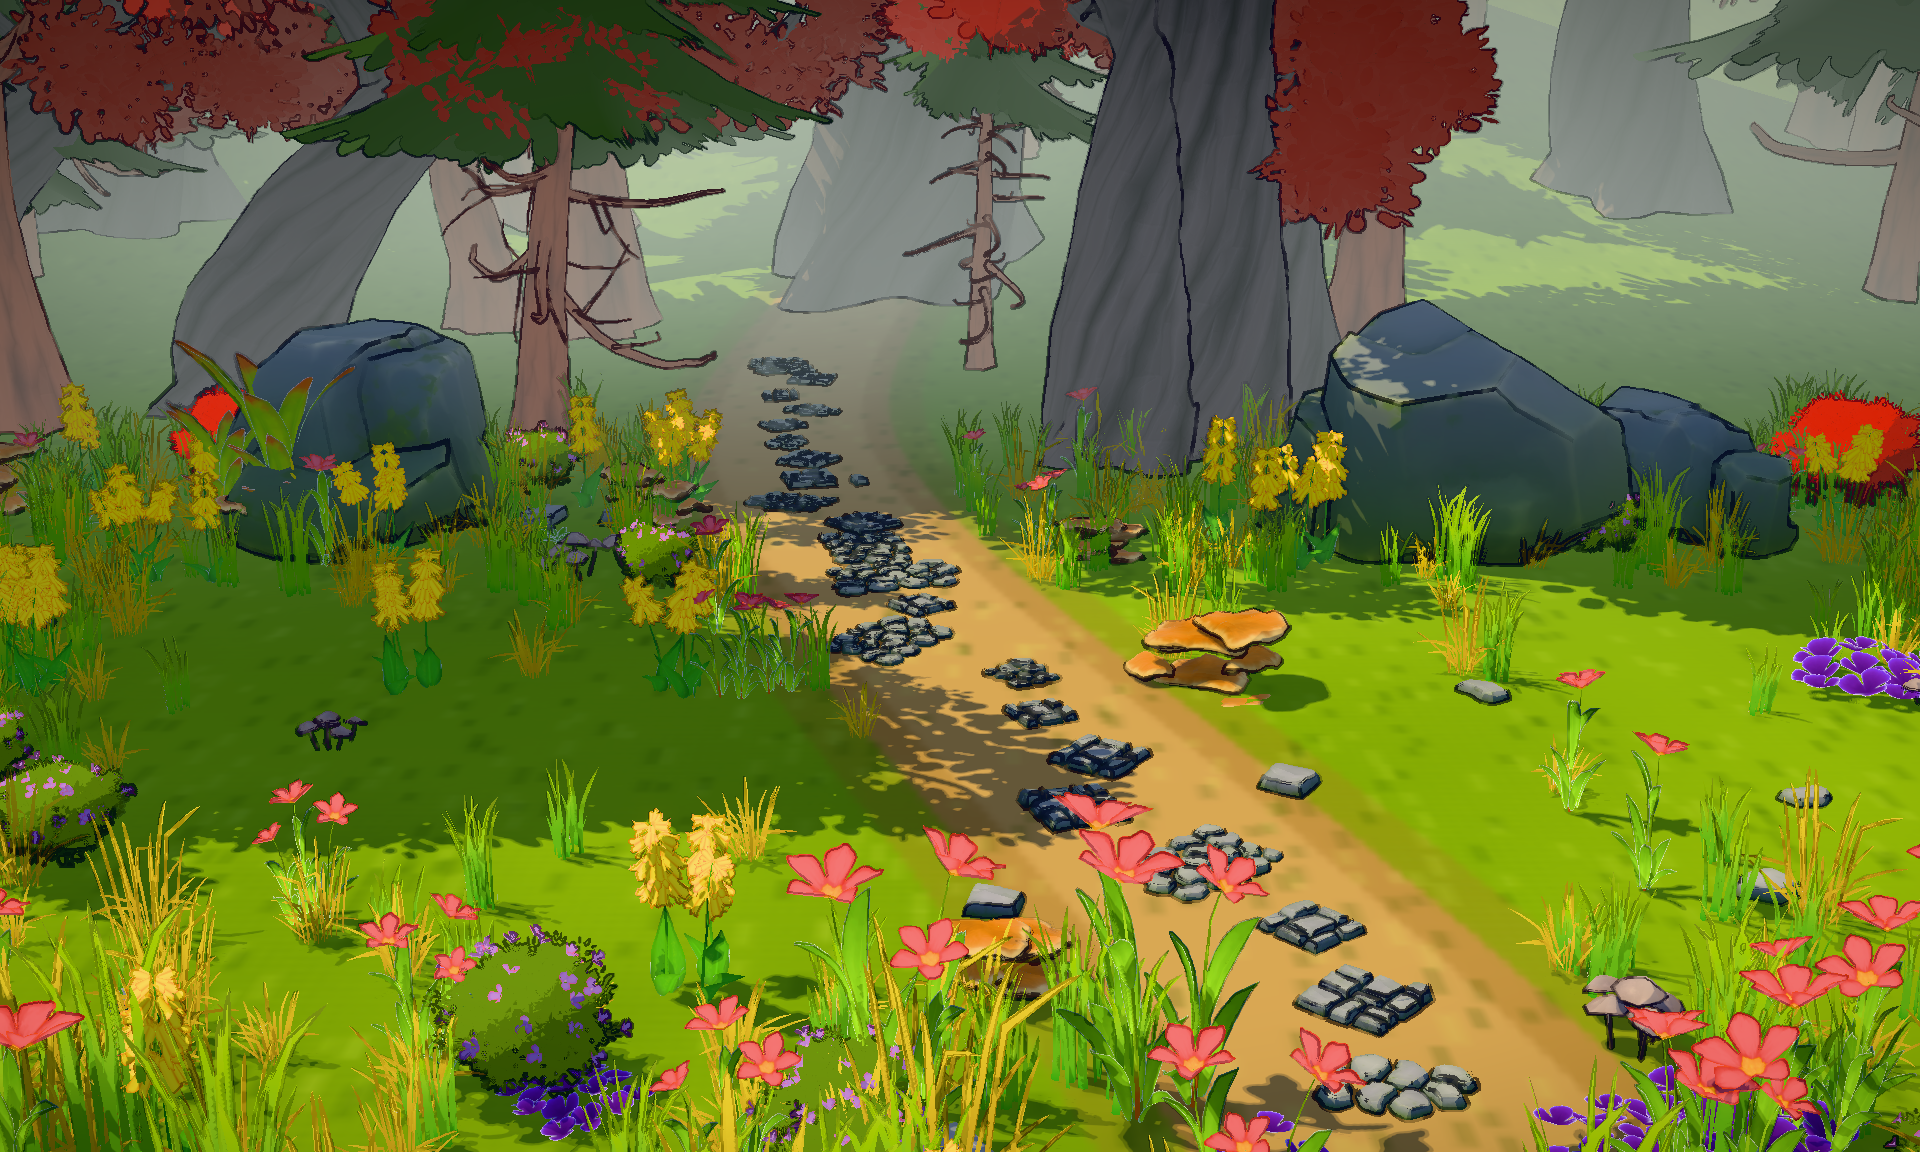
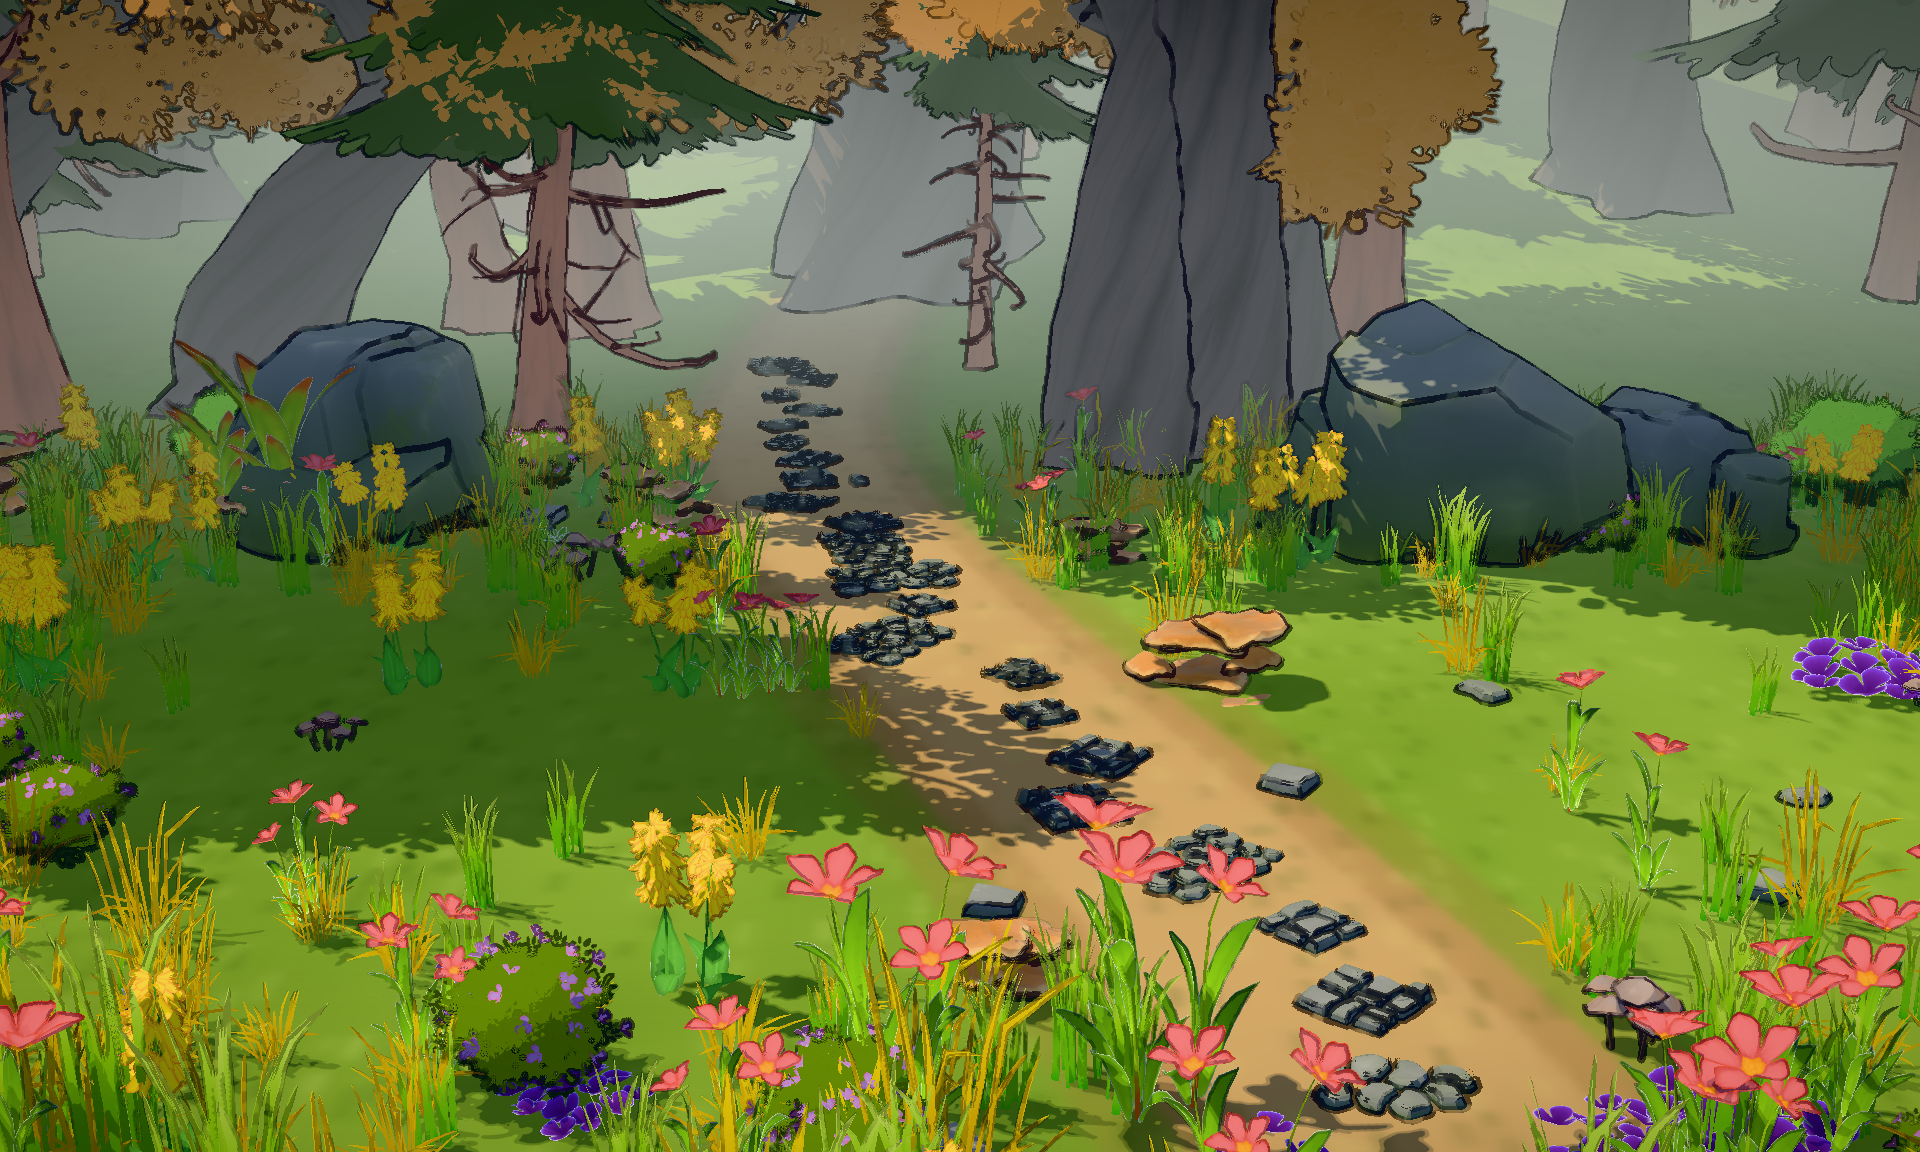
Toon scene: recolor red leaves to autumn gold / green bushes, flatten textures more, thicker wobblier lines, slightly lower saturation
Claude-Session: https://claude.ai/code/session_01JLEecThURYQTCHEQgBW1W6

diff --git a/hd2d-walk-demo/scenes3d/toon.js b/hd2d-walk-demo/scenes3d/toon.js
@@ -80,20 +80,32 @@ export function toonMaterial(src, kind, opt) {
     // 贴图「压平」：树皮、石头、地面的手绘细节和高频噪点会和分档光照打架，
     // 混一部分低精度 mip（相当于取局部平均色），表面变成更干净的色块，大的花纹还在
     if (kind === 'solid' && src.map) {
-      sh.uniforms.flatAmt = { value: opt.flatten ?? 0.55 };
+      sh.uniforms.flatAmt = { value: opt.flatten ?? 0.72 };
       sh.fragmentShader = sh.fragmentShader.replace('#include <map_fragment>', /* glsl */`
         #ifdef USE_MAP
           vec4 sampledDiffuseColor = texture2D( map, vMapUv );
-          sampledDiffuseColor.rgb = mix( sampledDiffuseColor.rgb, texture2D( map, vMapUv, 3.5 ).rgb, flatAmt );
+          sampledDiffuseColor.rgb = mix( sampledDiffuseColor.rgb, texture2D( map, vMapUv, 4.5 ).rgb, flatAmt );
           diffuseColor *= sampledDiffuseColor;
         #endif
       `).replace('uniform float sunLum, mid;', 'uniform float sunLum, mid, flatAmt;');
+    }
+    // 换色：素材包自带的深红叶子（TwistedTree / 灌木）太刺眼——取贴图红通道当明暗花纹，填上新颜色
+    if (src.userData.recolor && src.map) {
+      sh.uniforms.recolor = { value: new THREE.Color(src.userData.recolor) };
+      sh.fragmentShader = sh.fragmentShader.replace('#include <map_fragment>', /* glsl */`
+        #ifdef USE_MAP
+          vec4 sampledDiffuseColor = texture2D( map, vMapUv );
+          sampledDiffuseColor.rgb = recolor * clamp(sampledDiffuseColor.r / 0.40, 0.0, 1.6);
+          diffuseColor *= sampledDiffuseColor;
+        #endif
+      `).replace('uniform float sunLum, mid;', 'uniform float sunLum, mid; uniform vec3 recolor;');
     }
     // 叶片是双面卡片：背面不翻法线（用重写过的球形法线，整团叶子明暗连续）
     if (kind !== 'solid') sh.fragmentShader = sh.fragmentShader.replace('#include <normal_fragment_begin>',
       THREE.ShaderChunk.normal_fragment_begin.replace('normal *= faceDirection;', ''));
   };
-  m.customProgramCacheKey = () => 'toon-' + kind + (src.map ? '-map' : '');
+  if (src.userData.recolor) m.color.setRGB(1, 1, 1);
+  m.customProgramCacheKey = () => 'toon-' + kind + (src.map ? '-map' : '') + (src.userData.recolor ? '-re' : '');
   return m;
 }
 
@@ -122,7 +134,7 @@ export function edgePass(tND, W, H, far, o = {}) {
   const pass = new ShaderPass({
     uniforms: {
       tDiffuse: { value: null }, tND: { value: tND }, res: { value: new THREE.Vector2(W, H) }, far: { value: far },
-      width: { value: o.width ?? 1.0 }, ink: { value: new THREE.Color(o.ink ?? '#4a3f66') },
+      width: { value: o.width ?? 1.35 }, ink: { value: new THREE.Color(o.ink ?? '#4a3f66') },
     },
     vertexShader: 'varying vec2 vUv; void main(){ vUv = uv; gl_Position = projectionMatrix * modelViewMatrix * vec4(position,1.0); }',
     fragmentShader: /* glsl */`
@@ -135,7 +147,7 @@ export function edgePass(tND, W, H, far, o = {}) {
         vec2 px = 1.0 / res, P = vUv * res;
         // 手抖：采样位置跟着低频噪声轻轻漂，线条不是死贴着几何边
         vec2 wob = vec2(noise(P / 34.0), noise(P / 34.0 + 17.3)) - 0.5;
-        vec2 uv = vUv + wob * px * 2.6;
+        vec2 uv = vUv + wob * px * 3.4;
         vec4 c0 = texture2D(tND, uv);
         float d0 = c0.a * far;
         // 笔压：粗细按噪声起伏；近处的线粗、远处细
@@ -160,7 +172,10 @@ export function edgePass(tND, W, H, far, o = {}) {
         vec3 col = texture2D(tDiffuse, vUv).rgb;
         // 线色：底色压暗再往墨色（冷紫）靠——彩色墨线
         vec3 line = mix(col * 0.32, ink * 0.25, 0.45);
-        gl_FragColor = vec4(mix(col, line, clamp(e, 0.0, 1.0)), 1.0);
+        col = mix(col, line, clamp(e, 0.0, 1.0));
+        // 整体饱和度收一点（高饱和的花草最明显）
+        float L = dot(col, vec3(0.2126, 0.7152, 0.0722));
+        gl_FragColor = vec4(mix(vec3(L), col, 0.86), 1.0);
       }`,
   });
   // ShaderPass 会克隆 uniforms（贴图被克隆后和渲染目标断开），这里重新指回去

diff --git a/hd2d-walk-demo/scenes3d/meadow.js b/hd2d-walk-demo/scenes3d/meadow.js
@@ -153,6 +153,7 @@ async function model(name) {
       if (!o.isMesh) return;
       const m = Array.isArray(o.material) ? o.material[0] : o.material;
       m.userData.kind = classify(name, m);
+      if (/TwistedTree/i.test(m.name) && m.userData.kind !== 'solid') m.userData.recolor = /Bush/.test(name) ? '#4f8a2c' : '#e8a03a';
       rewriteNormals(o, m.userData.kind);
       // 草花朝上的法线 → 接收投影后和地面上的影子连成一片
       if (m.userData.kind === 'grass') o.receiveShadow = true;
